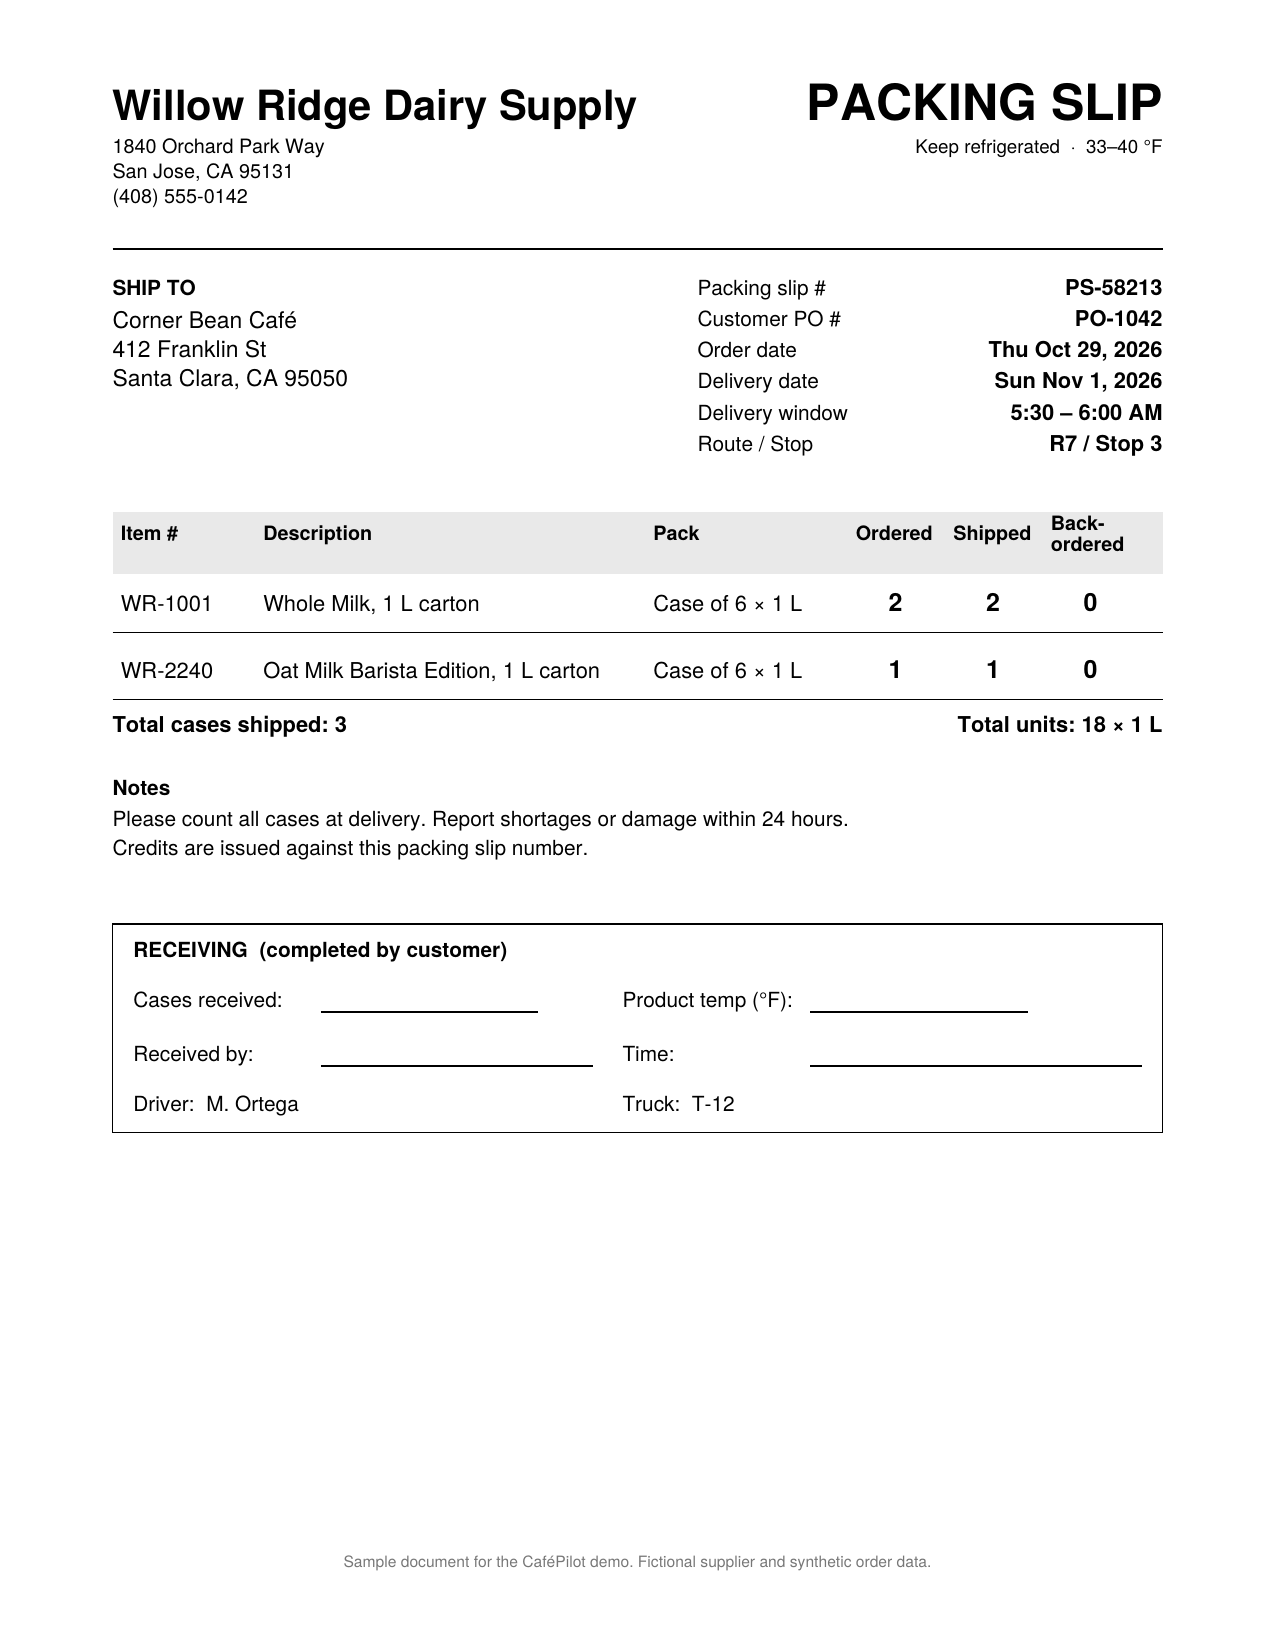
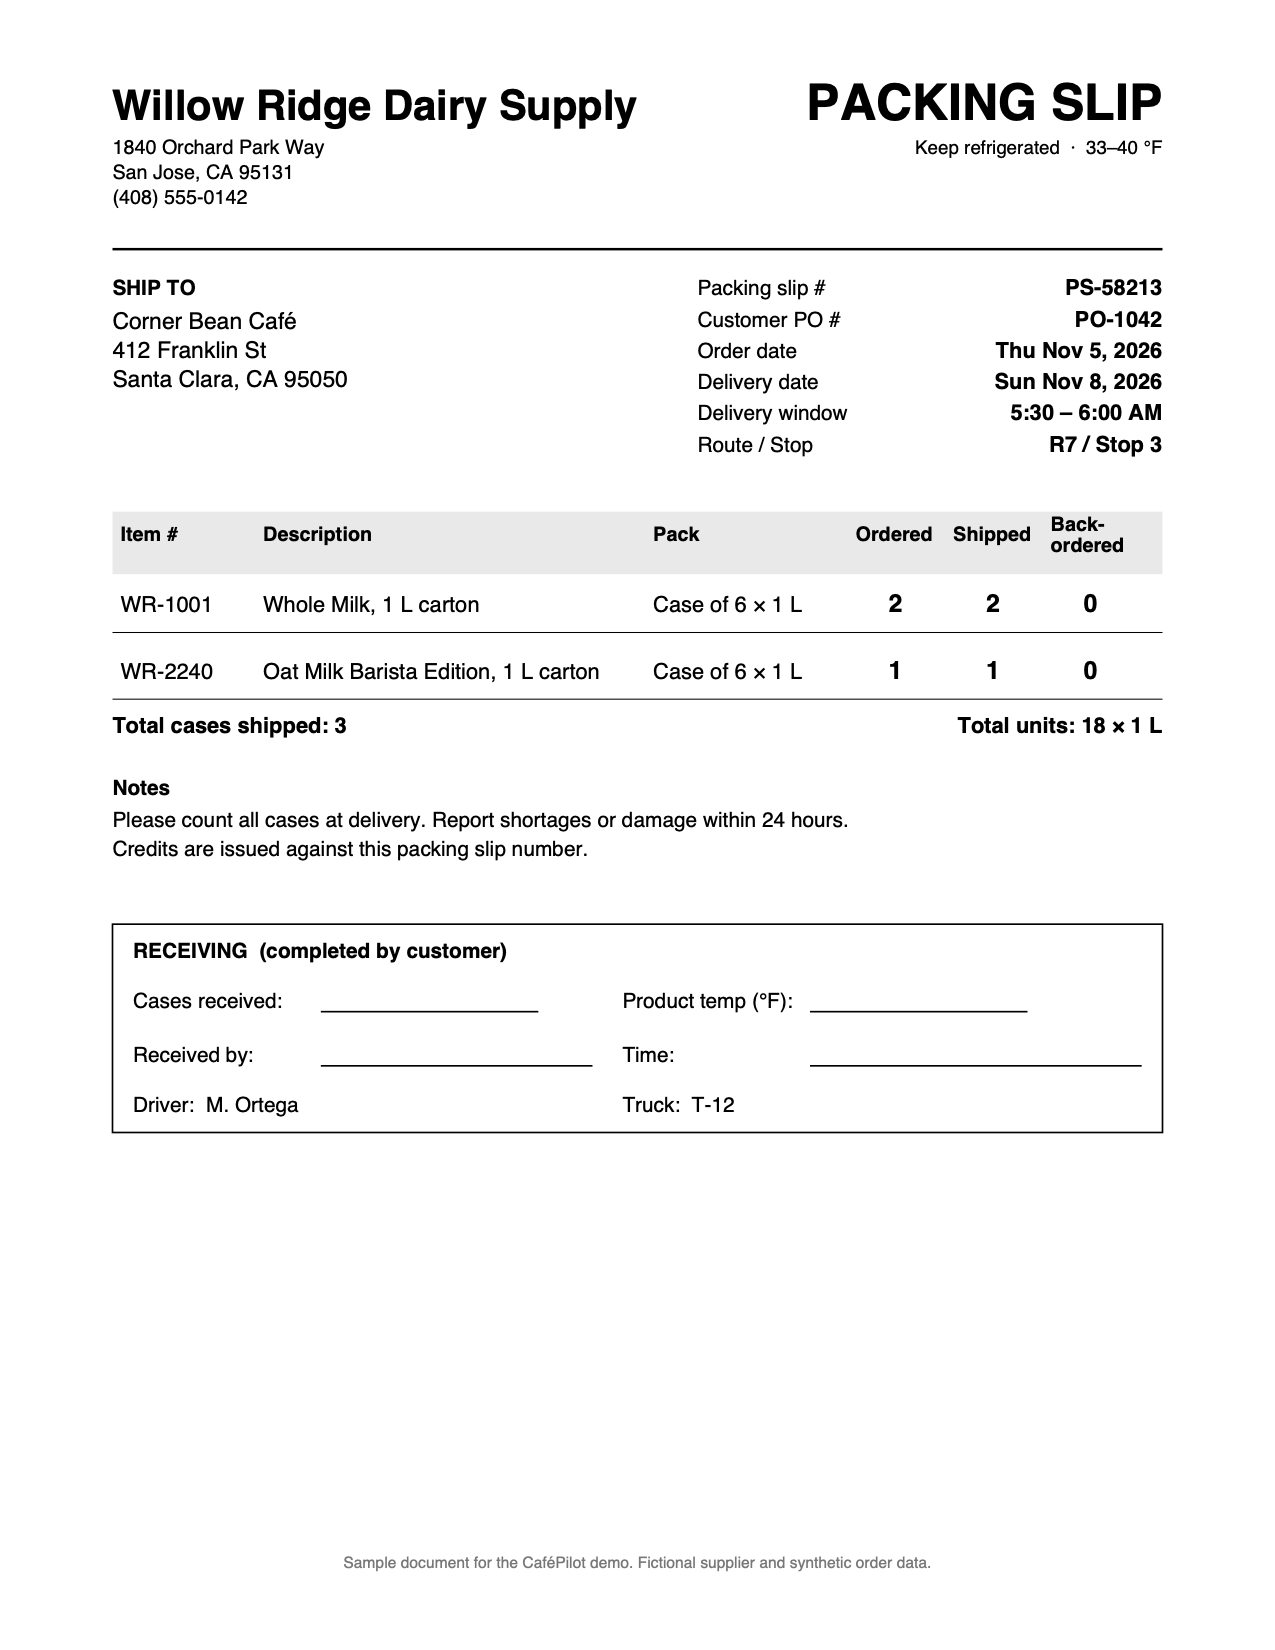
chore(receiving): packing slip PS-58213 dated for the Nov 8 market
Order date Thu Nov 5, delivery date Sun Nov 8 2026 (was Oct 29 / Nov 1),
still right-aligned; everything else on the slip is unchanged. The PNG is
the PDF rendered at 150 dpi. Muse re-read the new slip live: it reads
"Sun Nov 8, 2026" and the same lines; the delivery photo counts are the
same (only its wording changed), so the replayed fixture is refreshed.

diff --git a/business-core/demo-assets/receiving/README.md b/business-core/demo-assets/receiving/README.md
@@ -1,7 +1,8 @@
 # Receiving demo assets (synthetic)
 
 - `packing-slip-PS-58213.pdf` / `.png`: fictional packing slip from Willow Ridge Dairy Supply for PO-1042
-  (2 cases whole milk + 1 case oat milk, 6 × 1 L each, Sun Nov 1 2026, 5:30–6:00 AM).
+  (2 cases whole milk + 1 case oat milk, 6 × 1 L each; ordered Thu Nov 5, delivered Sun Nov 8 2026, 5:30–6:00 AM).
+  The PNG is the PDF rendered at 150 dpi.
 - `delivery-photo.jpg`: AI-generated photo of the delivery (1 open case of oat milk, a crate with whole milk).
 
 Fictional supplier and synthetic order data, for the CaféPilot hackathon demo only.
